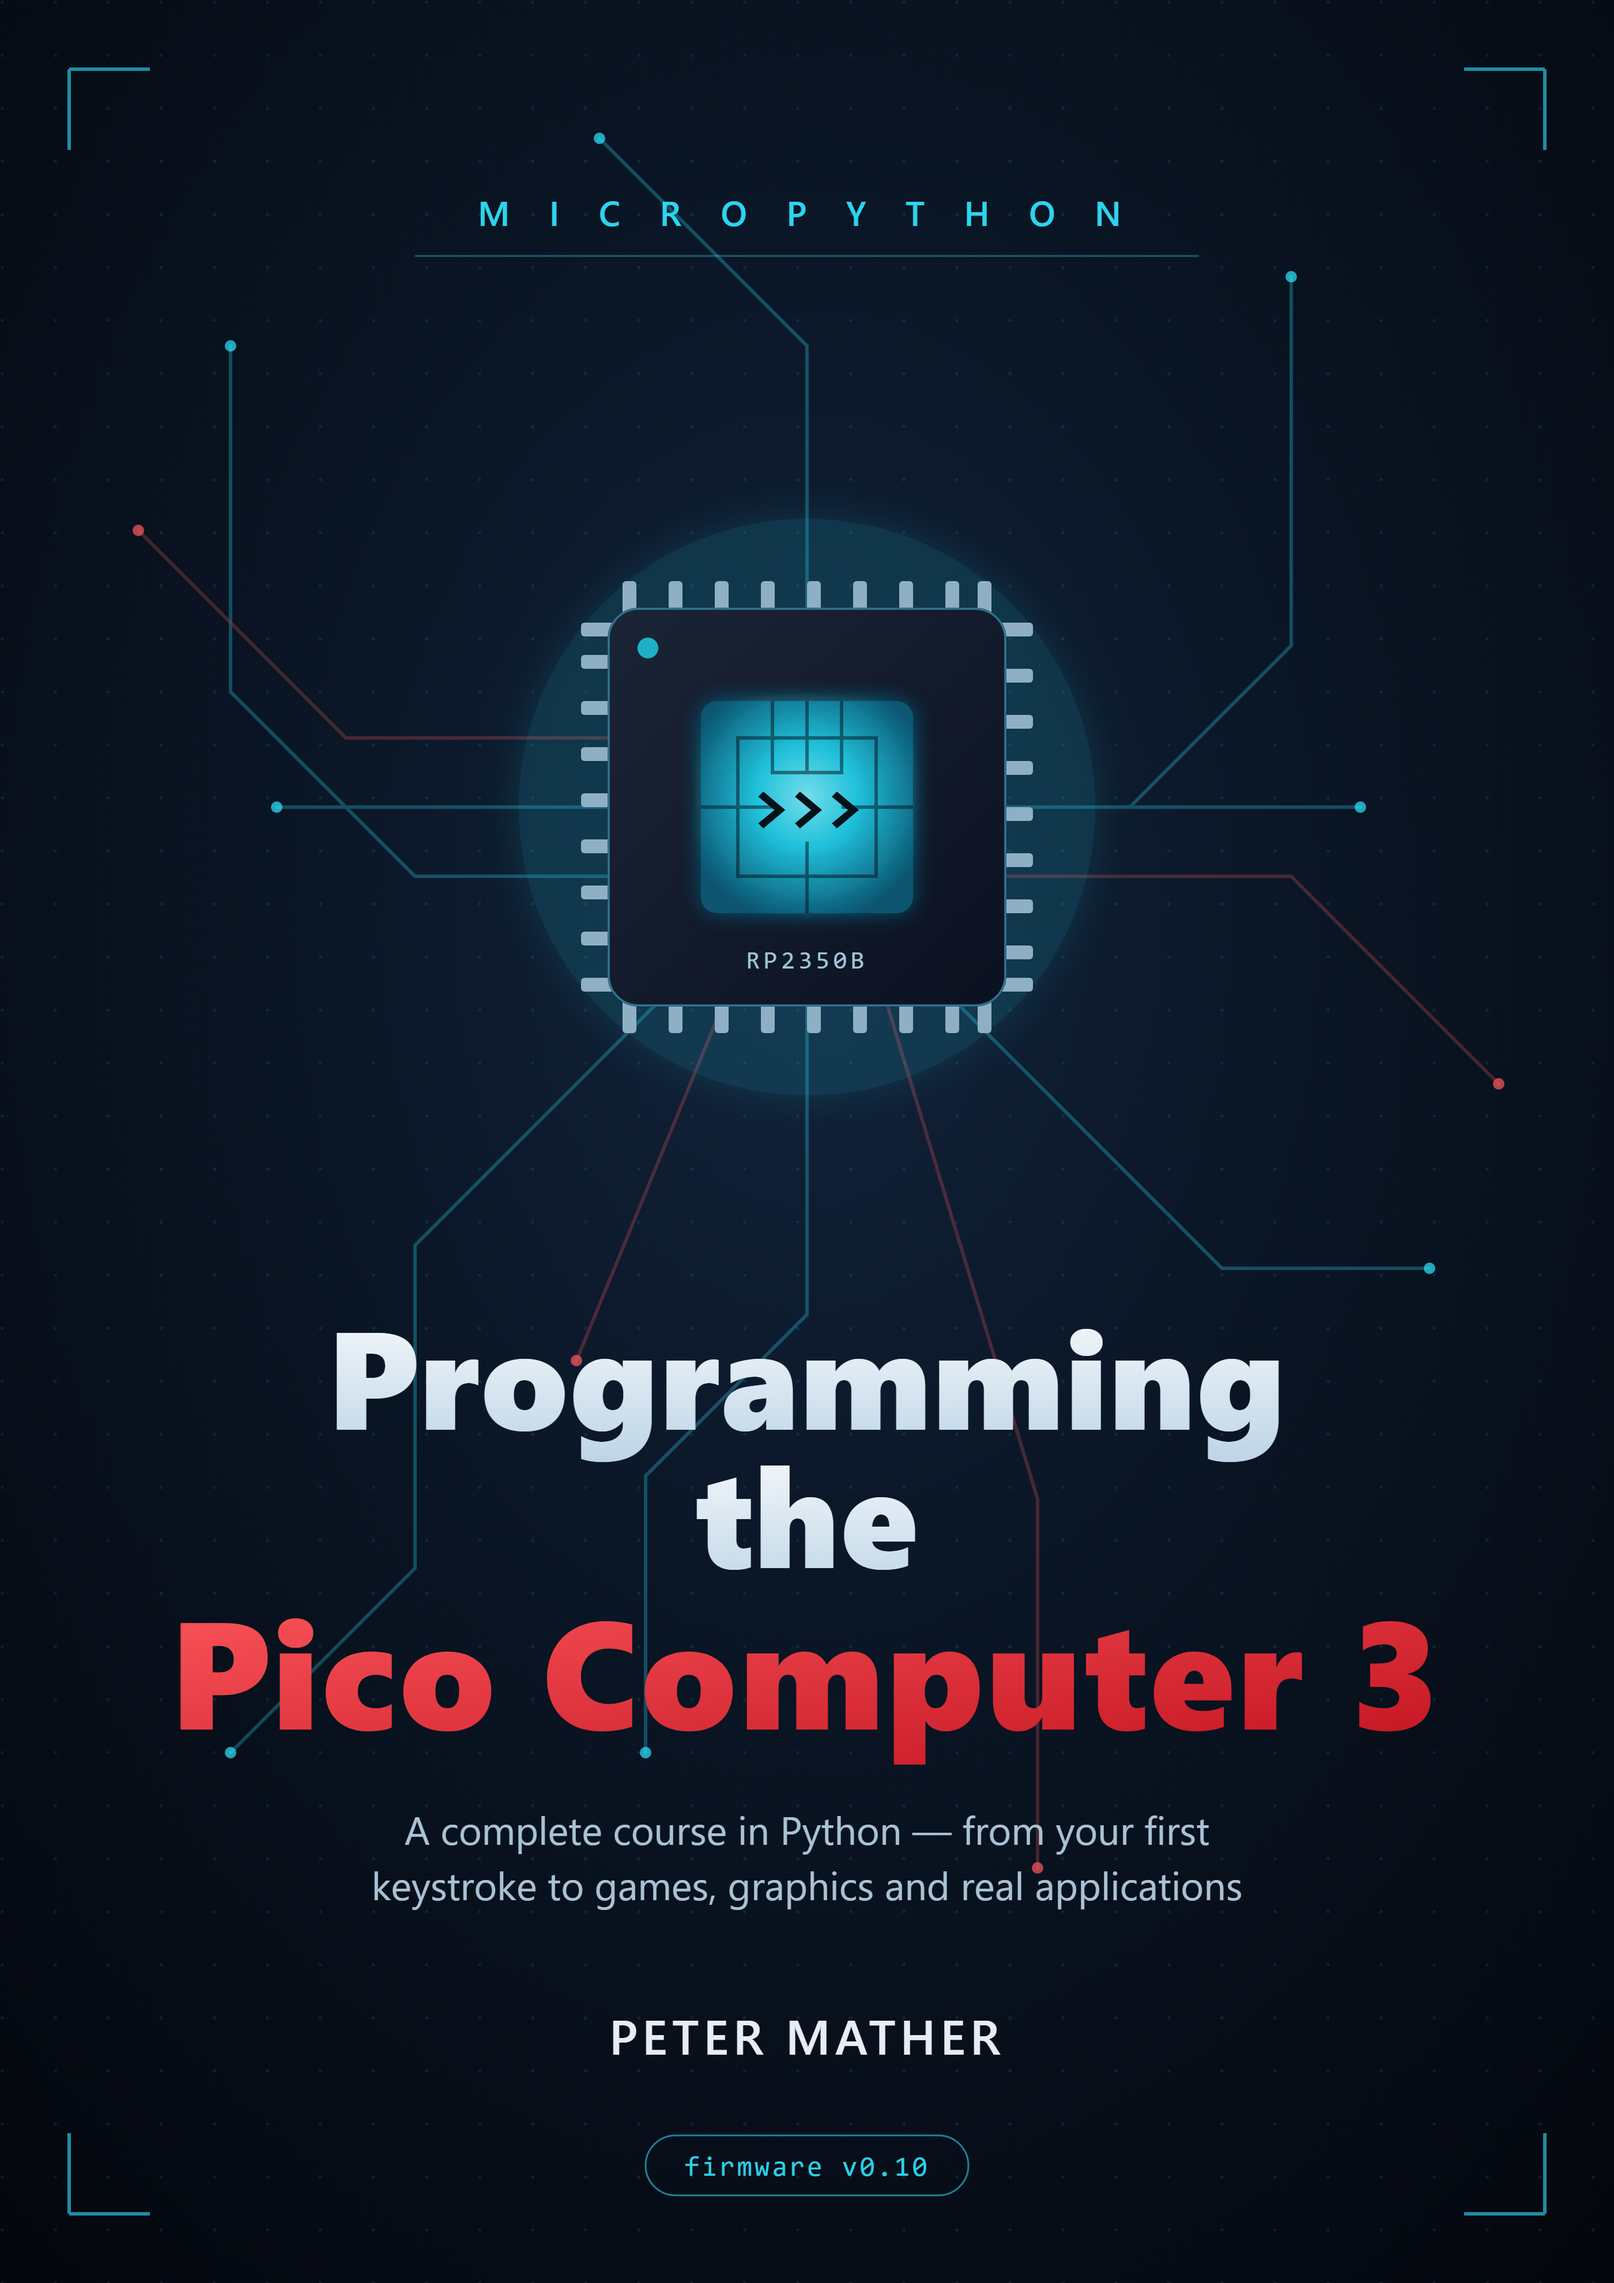
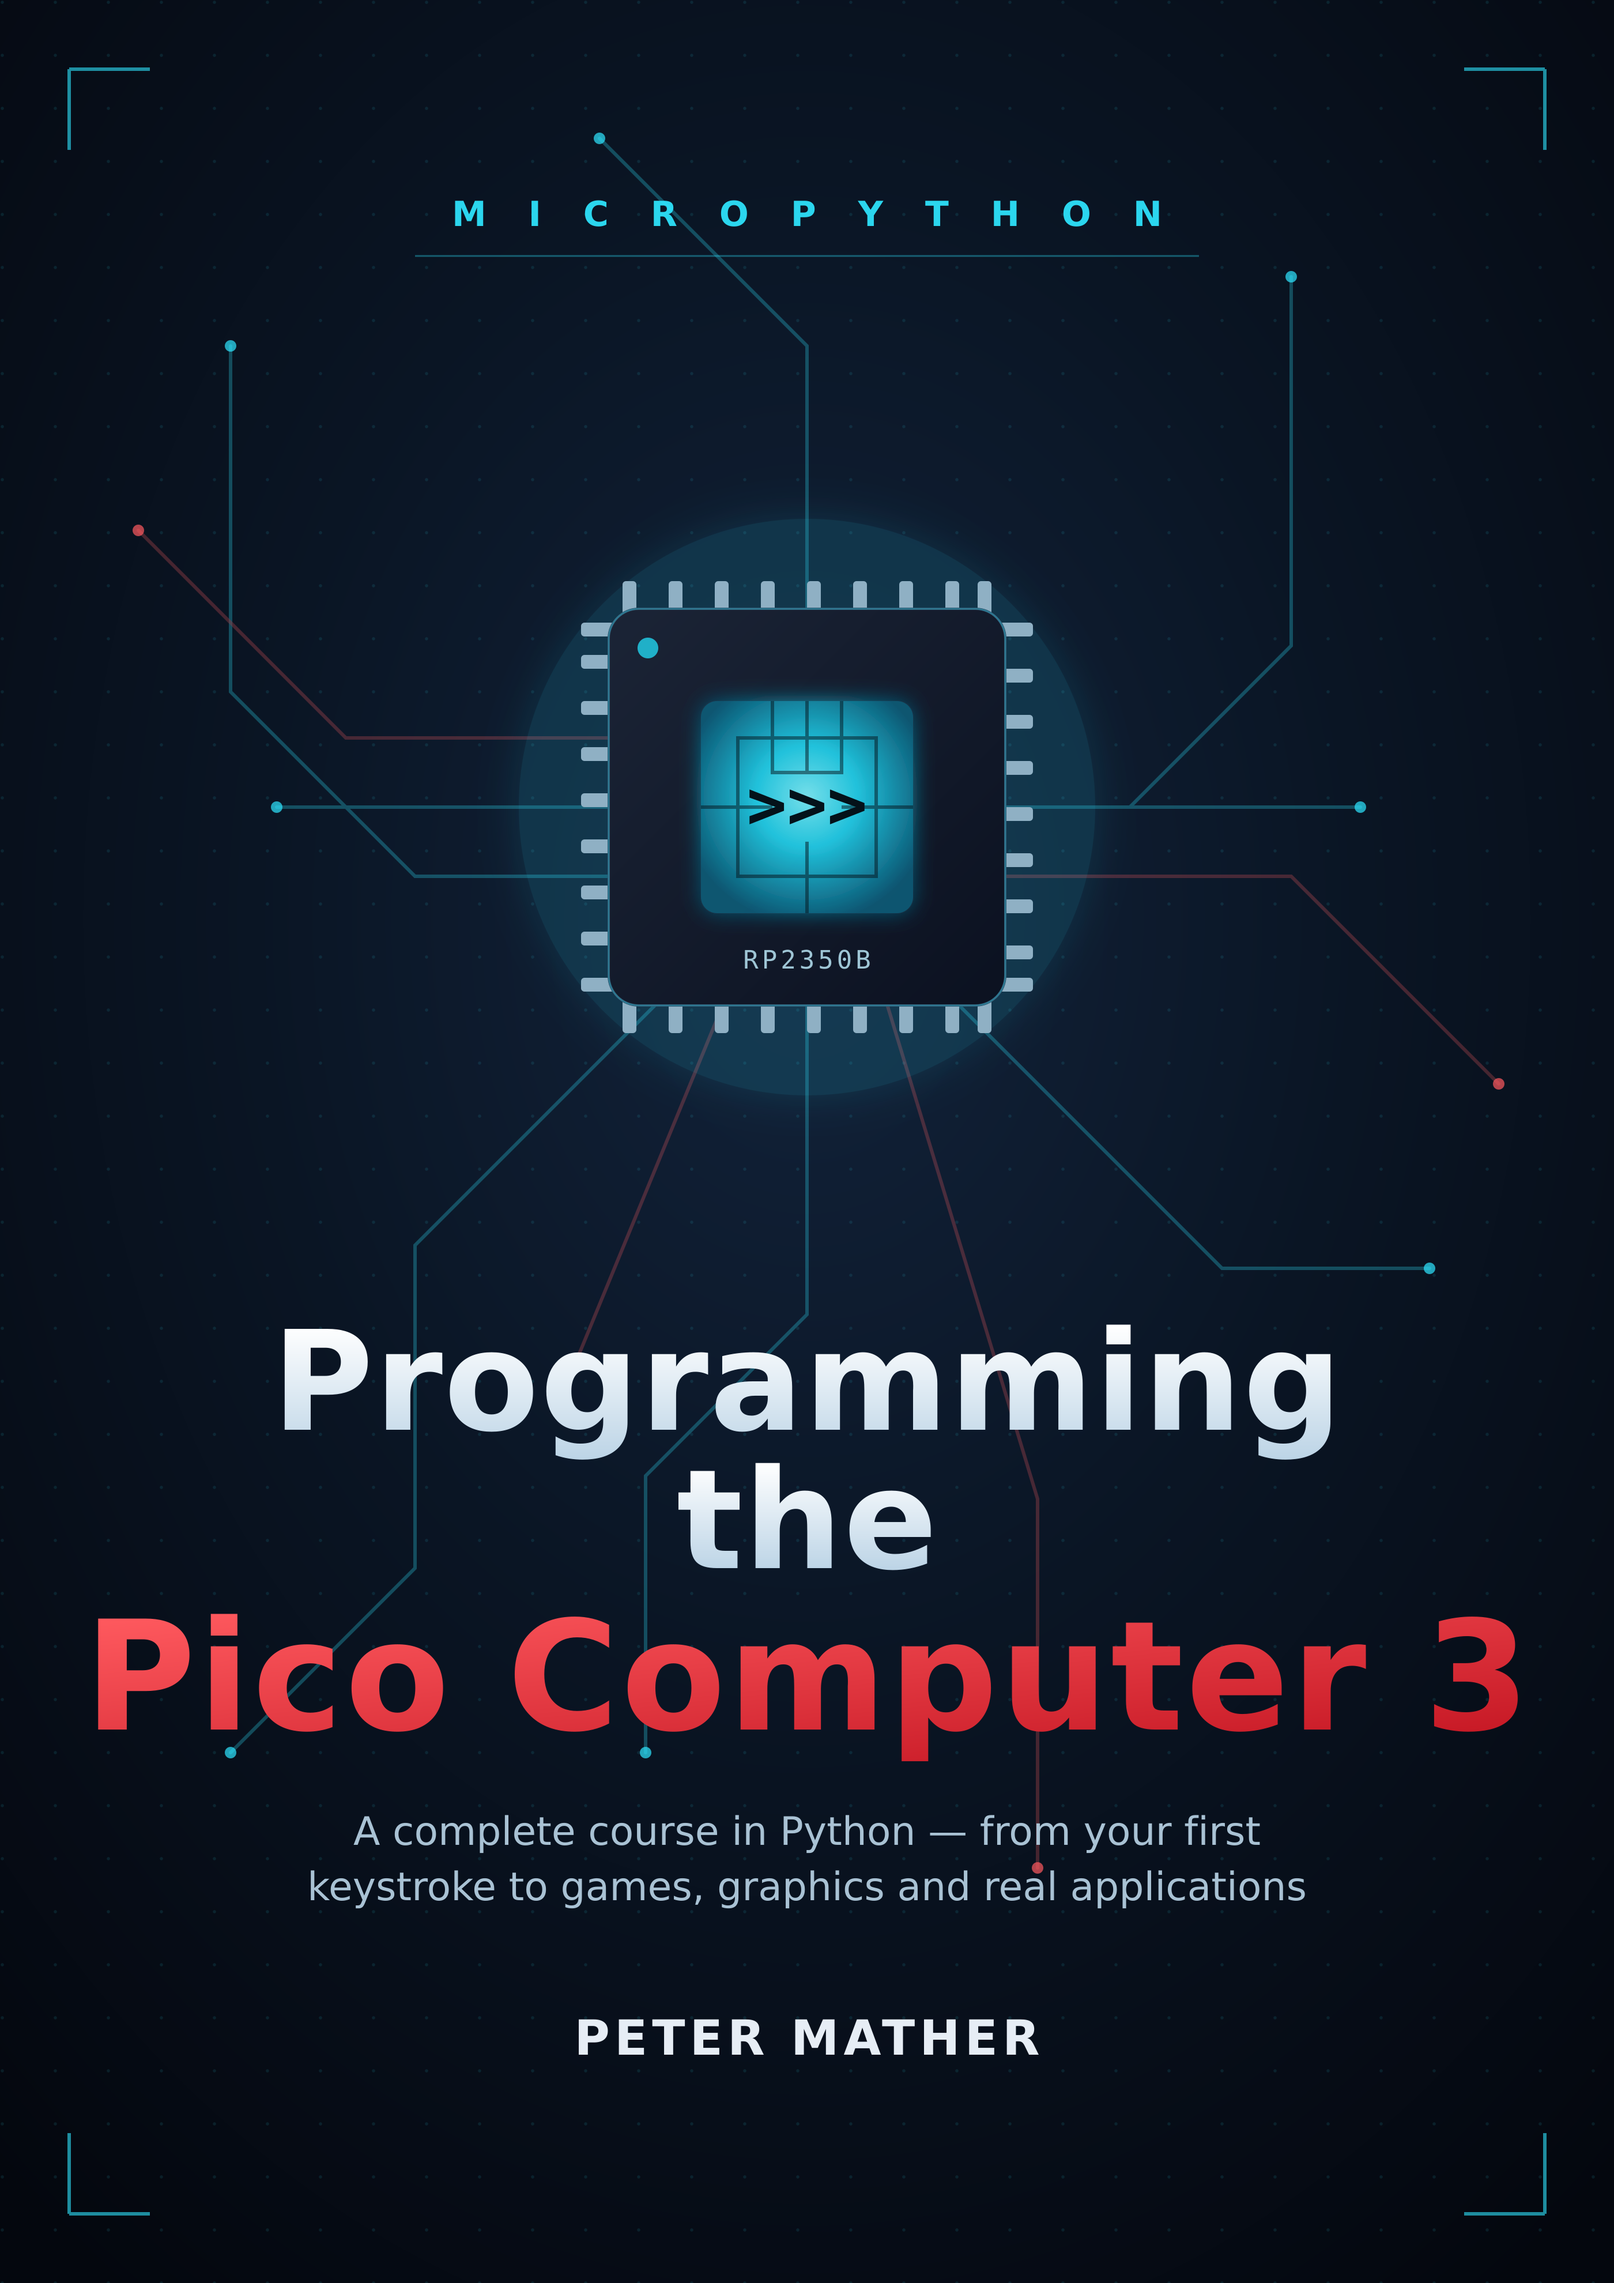
rp2/PICO_COMPUTER_3: book -- drop firmware-version references
Remove the "firmware v0.10" badge from the cover (cover.svg + re-rendered
cover.png) so the book isn't pinned to a firmware release, and strip the
specific-version references from the text: the metadata date, the outline
heading, and the sample REPL banner in chapters 1 and 2 (now version-free,
with a note in ch1 that the real banner shows version numbers that change).

diff --git a/ports/rp2/boards/PICO_COMPUTER_3/book/01-meet-your-computer.md b/ports/rp2/boards/PICO_COMPUTER_3/book/01-meet-your-computer.md
@@ -4,11 +4,12 @@ Switch on the Pico Computer 3 and, a moment later, a prompt appears on the
 screen:
 
 ```
-MicroPython v1.29.0-preview on PICO COMPUTER 3 v0.10 with RP2350B
+MicroPython on PICO COMPUTER 3 with RP2350B
 >>>
 ```
 
-That `>>>` is an invitation. The machine is waiting for you to tell it what
+(Your screen will also show the MicroPython and firmware version numbers,
+which change as the software is updated.) That `>>>` is an invitation. The machine is waiting for you to tell it what
 to do — and the language it speaks is **Python**, the most widely used
 programming language in the world.
 

diff --git a/ports/rp2/boards/PICO_COMPUTER_3/book/OUTLINE.md b/ports/rp2/boards/PICO_COMPUTER_3/book/OUTLINE.md
@@ -1,7 +1,7 @@
 # Programming the Pico Computer 3
 ### A complete course in Python — from your first keystroke to games, graphics and real applications
 
-**Book outline — draft 1 (targets firmware v0.8)**
+**Book outline — draft 1**
 
 Audience: complete newcomers to programming, plus readers arriving from
 MMBasic/PicoMite. No PC required beyond the initial firmware flash — every

diff --git a/ports/rp2/boards/PICO_COMPUTER_3/book/02-getting-started.md b/ports/rp2/boards/PICO_COMPUTER_3/book/02-getting-started.md
@@ -90,7 +90,7 @@ computer now, not an accessory. The Prog port exists purely for firmware.
 Within a couple of seconds the monitor lights up and shows the banner:
 
 ```
-MicroPython v1.29.0-preview on PICO COMPUTER 3 v0.10 with RP2350B
+MicroPython on PICO COMPUTER 3 with RP2350B
 >>>
 ```
 
